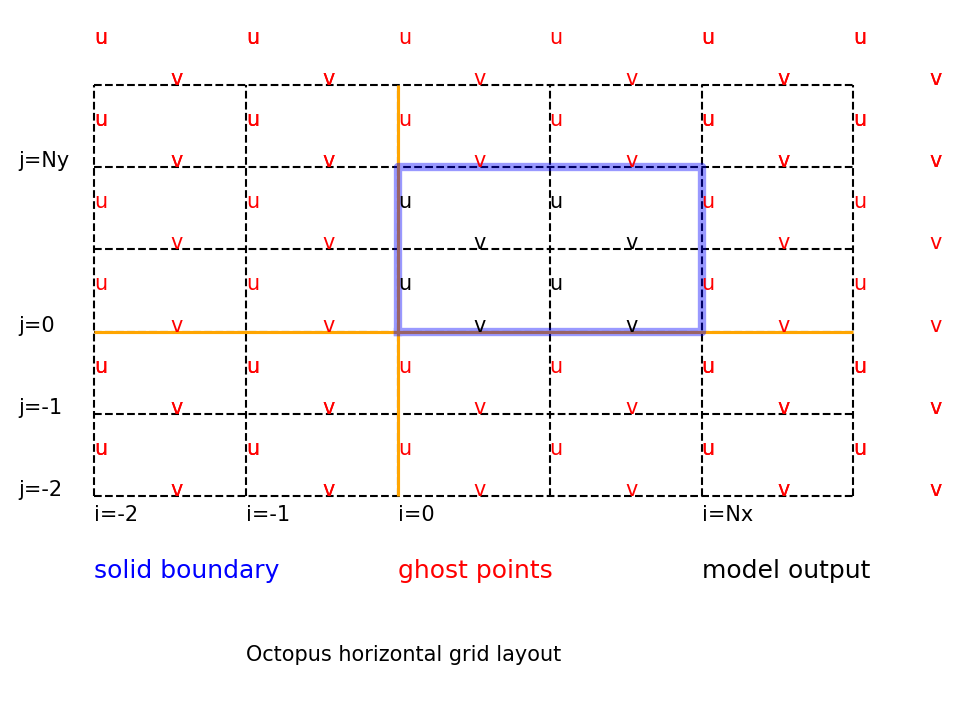
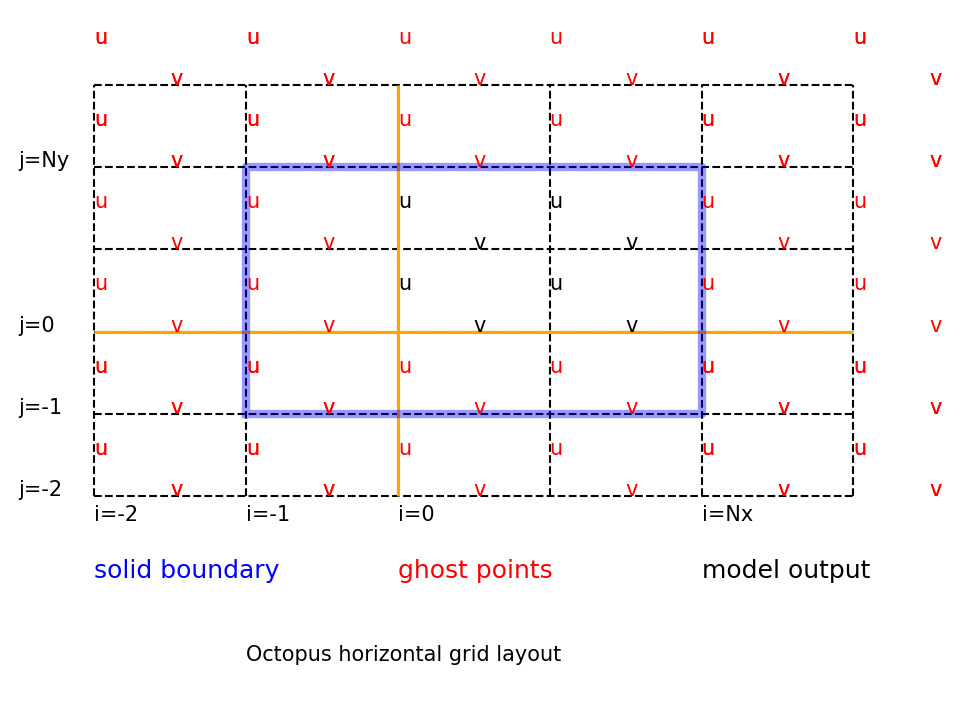
working version with descretized analytical velocity function

Changed region(s): [[0.25, 0.2139, 0.75, 0.5806]]

diff --git a/src/init_parti_xyz.py b/src/init_parti_xyz.py
@@ -6,6 +6,7 @@ August 26, 2015 """
 
 from numpy import *
 import sys
+import numpy as np
 
 def test():
     center=r_[1500,107,25].reshape(-1,3)
@@ -15,6 +16,17 @@ def test():
     fn = 'particle_initial_xyz.bin'
     xyz.T.astype('>f8').tofile(fn)
     return
+
+def test_transport2():
+    npts=40
+    xyz=zeros((npts,3))
+    xyz[:,0]=np.linspace(0.1,99.8,npts)
+    xyz[:,1]=50
+    
+    fn = 'test_transport2.bin'
+    xyz.T.astype('>f8').tofile(fn)
+    return
+
 
 def test_transport():
     """
@@ -47,5 +59,4 @@ def test_transport():
 
 
 if __name__=='__main__':
-    npts=100  #the number of particles
-    test_transport()
+    test_transport2()

diff --git a/scripts/p_grid.py b/scripts/p_grid.py
@@ -19,7 +19,7 @@ if __name__=='__main__':
         plt.vlines(i-2,-2,Ny+1,ls='--',lw=1)
     for j in range(Ny+4):
         plt.hlines(j-2,-2,Nx+1,ls='--',lw=1)
-    plt.plot([0,Nx,Nx,0,0],[0,0,Ny,Ny,0],lw=4,alpha=0.4,color='b')
+    plt.plot([-1,Nx,Nx,-1,-1],[-1,-1,Ny,Ny,-1],lw=4,alpha=0.4,color='b')
 
     
     for i in range(2,Nx+2):

diff --git a/src/size.h b/src/size.h
@@ -1,4 +1,4 @@
-integer*8, parameter :: Nx=20, Ny=20, Nz=1 !llc4320 calval_california
+integer*8, parameter :: Nx=100, Ny=100, Nz=1 !llc4320 calval_california
 integer*8, parameter :: Nrecs=365
 integer*8, parameter :: Nvar2read=6
 real*8, parameter :: dt_file=86400 !hourly state

diff --git a/src/cpp_options.h b/src/cpp_options.h
@@ -10,7 +10,8 @@
 #undef jump_looping
 #undef periodic_x
 #undef monitoring
-#define one_file_per_step
-#undef stationary_velocity
+#undef one_file_per_step
+#define stationary_velocity
 #define transport
-#define analytical
+#undef analytical
+#define twoDimensional
